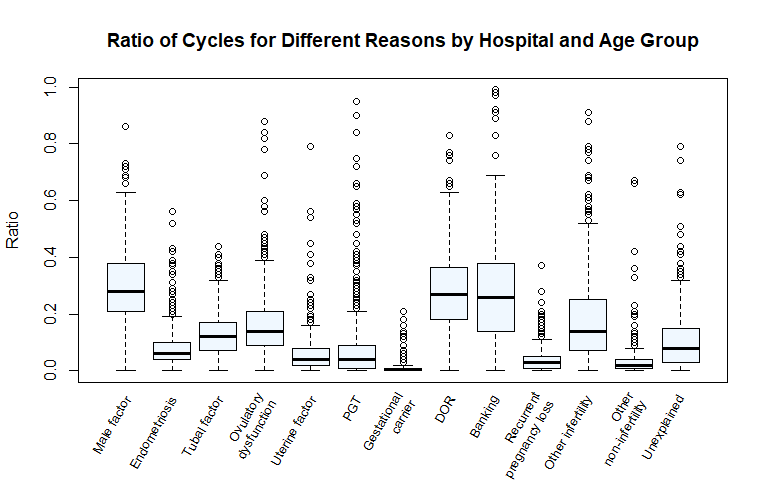
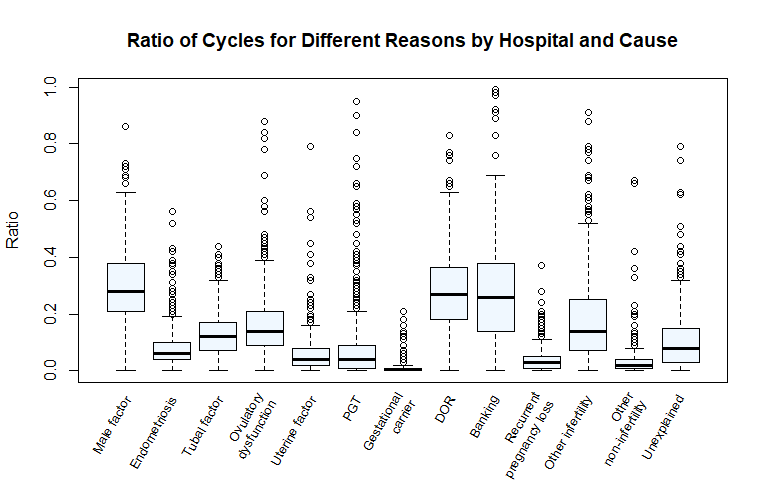
Fix title of Ratio of Cycles for Different Reasons
In code and md report.

Changed region(s): [[0.125, 0.0625, 0.9062, 0.125]]

diff --git a/PEC3.md b/PEC3.md
@@ -2066,7 +2066,7 @@ preservation of fertility (banking) or unknown.
     boxplot(clinic_data[c(142:154)],
             #xlab = "Groups",
             ylab = "Ratio",
-            main = bquote("Ratio of Cycles for Different Reasons by Hospital and Age Group"),
+            main = bquote("Ratio of Cycles for Different Reasons by Hospital and Cause"),
             names = c("Male factor", "Endometriosis", "Tubal factor", "Ovulatory dysfunction",
                       "Uterine factor", "PGT", "Gestational carrier", "DOR", "Banking",
                       "Recurrent pregnancy loss", "Other infertility", "Other non-infertility",
